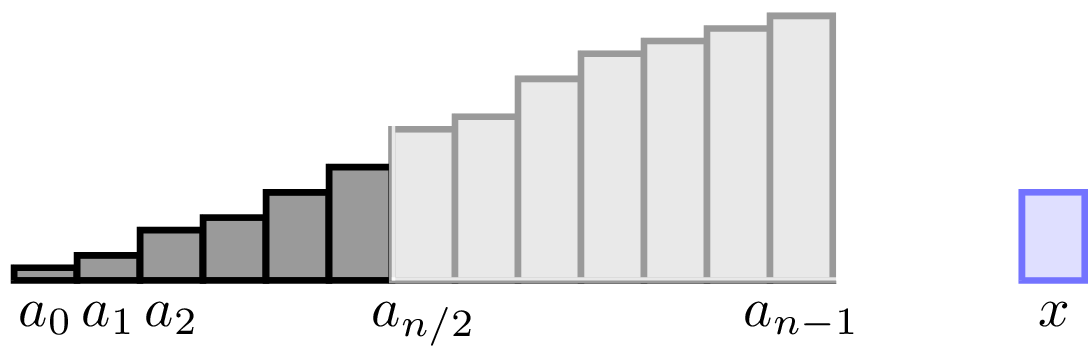
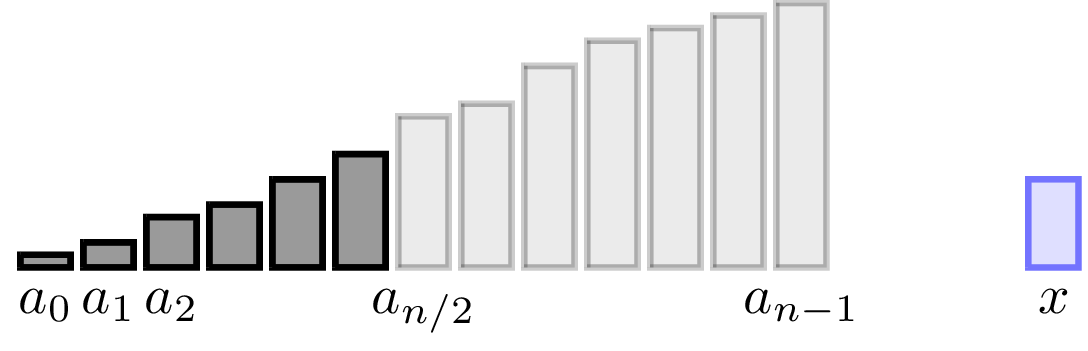
Fix binary search pictures

diff --git a/images/searching_sorted_data2.tex b/images/searching_sorted_data2.tex
@@ -1,10 +1,13 @@
 \begin{scope}[scale=.4]
-	\foreach \h [count=\n] in {1, 2, 4, 5, 7, 9, 12, 13, 16, 18, 19, 20, 21}
-	\draw[mc, fill=mcfill] (\n, 0) rectangle (\n + 1, \h / 5);
-	\foreach \x/\t in {0/0, 1/1, 2/2, 6/{n/2}, 12/{n-1}}
-	\node[below] at (\x + 1.5, 0) {$a_{\t}$};
-	\draw[fill=white,opacity=0.8,draw=white] (7,0) rectangle (14.1,22/5);
+	\foreach \h [count=\n] in {1, 2, 4, 5, 7, 9}
+		\draw[mc, fill=mcfill] (\n, 0) rectangle (\n + .8, \h / 5);
 	
-	\draw[two, fill=twofill] (17, 0) rectangle (18, 7 / 5);
-	\node[below] at (17.5,0) {$x$};
+	\foreach \h [count=\n from 7] in {12, 13, 16, 18, 19, 20, 21}
+		\draw[mc, fill=mcfill, opacity=.2] (\n, 0) rectangle (\n + .8, \h / 5);
+	
+	\foreach \x/\t in {0/0, 1/1, 2/2, 6/{n/2}, 12/{n-1}}
+		\node[below] at (\x + 1.4, 0) {$a_{\t}$};
+	
+	\draw[two, fill=twofill] (17, 0) rectangle (17.8, 7 / 5);
+	\node[below] at (17.4,0) {$x$};
 \end{scope}

diff --git a/images/searching_sorted_data3.tex b/images/searching_sorted_data3.tex
@@ -1,10 +1,13 @@
 \begin{scope}[scale=.4]
-	\foreach \h [count=\n] in {1, 2, 4, 5, 7, 9, 12, 13, 16, 18, 19, 20, 21}
-		\draw[mc, fill=mcfill] (\n, 0) rectangle (\n + 1, \h / 5);
-	\foreach \x/\t in {0/0, 1/1, 2/2, 6/{n/2}, 12/{n-1}}
-		\node[below] at (\x + 1.5, 0) {$a_{\t}$};
-	\draw[fill=white,opacity=0.8,draw=white] (0,0) rectangle (8,5);
+	\foreach \h [count=\n] in {1, 2, 4, 5, 7, 9, 12}
+	\draw[mc, fill=mcfill, opacity=.2] (\n, 0) rectangle (\n + .8, \h / 5);
 	
-	\draw[mytwo, fill=mytwofill] (17, 0) rectangle (18, 19 / 5);
-	\node[below] at (17.5,0) {$x$};
+	\foreach \h [count=\n from 8] in {13, 16, 18, 19, 20, 21}
+	\draw[mc, fill=mcfill] (\n, 0) rectangle (\n + .8, \h / 5);
+	
+	\foreach \x/\t in {0/0, 1/1, 2/2, 6/{n/2}, 12/{n-1}}
+		\node[below] at (\x + 1.4, 0) {$a_{\t}$};
+	
+	\draw[two, fill=twofill] (17, 0) rectangle (17.8, 19 / 5);
+	\node[below] at (17.4,0) {$x$};
 \end{scope}

diff --git a/images/searching_sorted_data1.tex b/images/searching_sorted_data1.tex
@@ -1,6 +1,6 @@
 \begin{scope}[scale=.4]
 	\foreach \h [count=\n] in {1, 2, 4, 5, 7, 9, 12, 13, 16, 18, 19, 20, 21}
-		\draw[mc, fill=mcfill] (\n, 0) rectangle (\n + 1, \h / 5);
+		\draw[mc, fill=mcfill] (\n, 0) rectangle (\n + .8, \h / 5);
 	\foreach \x/\t in {0/0, 1/1, 2/2, 12/{n-1}}
-		\node[below] at (\x + 1.5, 0) {$a_{\t}$};
+		\node[below] at (\x + 1.4, 0) {$a_{\t}$};
 \end{scope}
